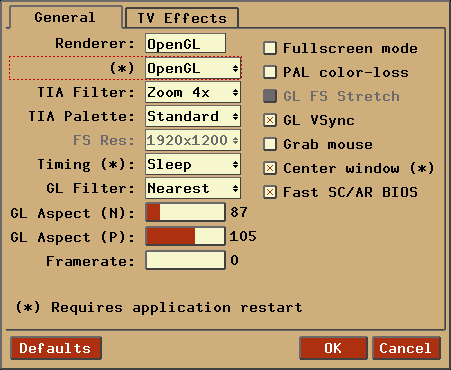
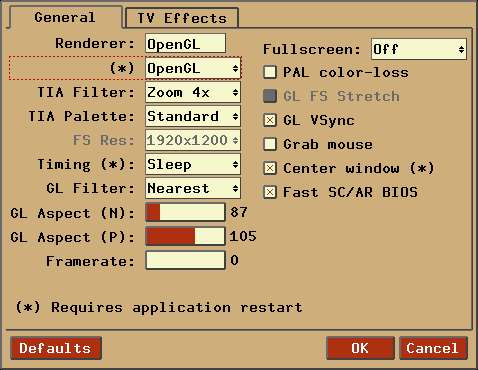
Modified -fullscreen commandline argument to accept an integer instead of a boolean.  It now accepts value '-1' to mean 'completely disable fullscreen mode switching'.  This was added because some systems with buggy video drivers can't handle fullscreen mode, and accidentally trying to do so can loc
Fixed fullscreen/windowed switching wrt grabbing the mouse.  Sometimes
switching from fullscreen to windowed mode had the cursor trapped in
the window, even if grabmouse was disabled.

diff --git a/docs/index.html b/docs/index.html
@@ -684,8 +684,9 @@
 		</tr>
 
 		<tr>
-			<td><pre>-fullscreen &lt;1|0&gt;</pre></td>
-			<td>Play the game in fullscreen mode.</td>
+			<td><pre>-fullscreen &lt;1|0|-1&gt;</pre></td>
+			<td>Play the game in fullscreen mode (1 or 0), or completely disable
+				fullscreen mode (-1).</td>
 		</tr>
 
 		<tr>
